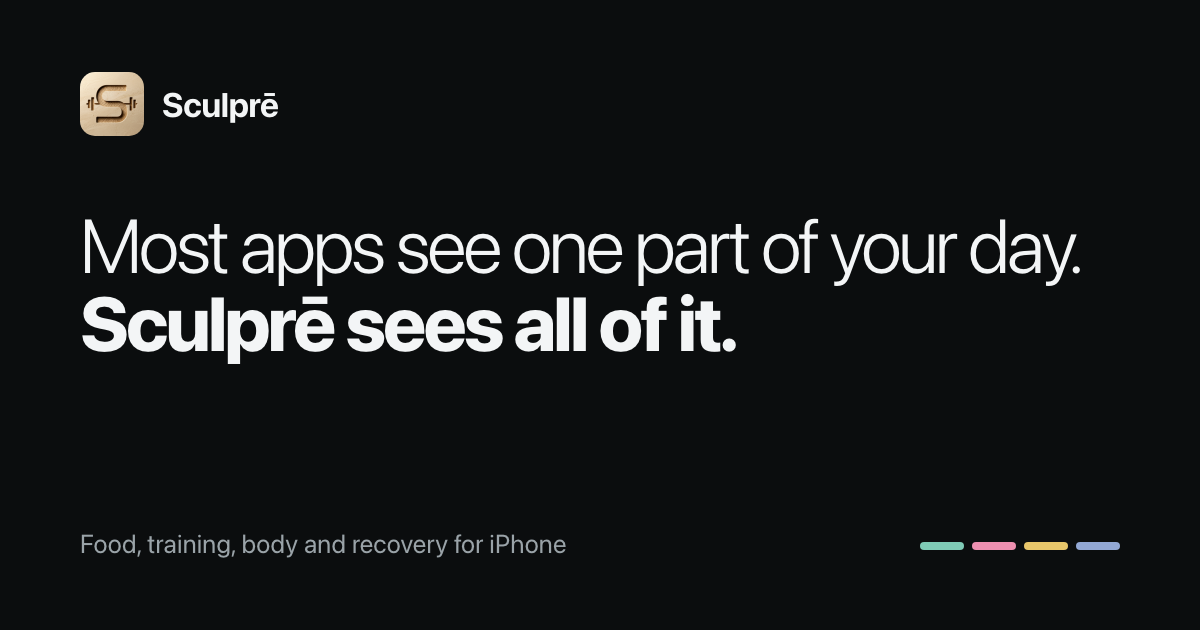
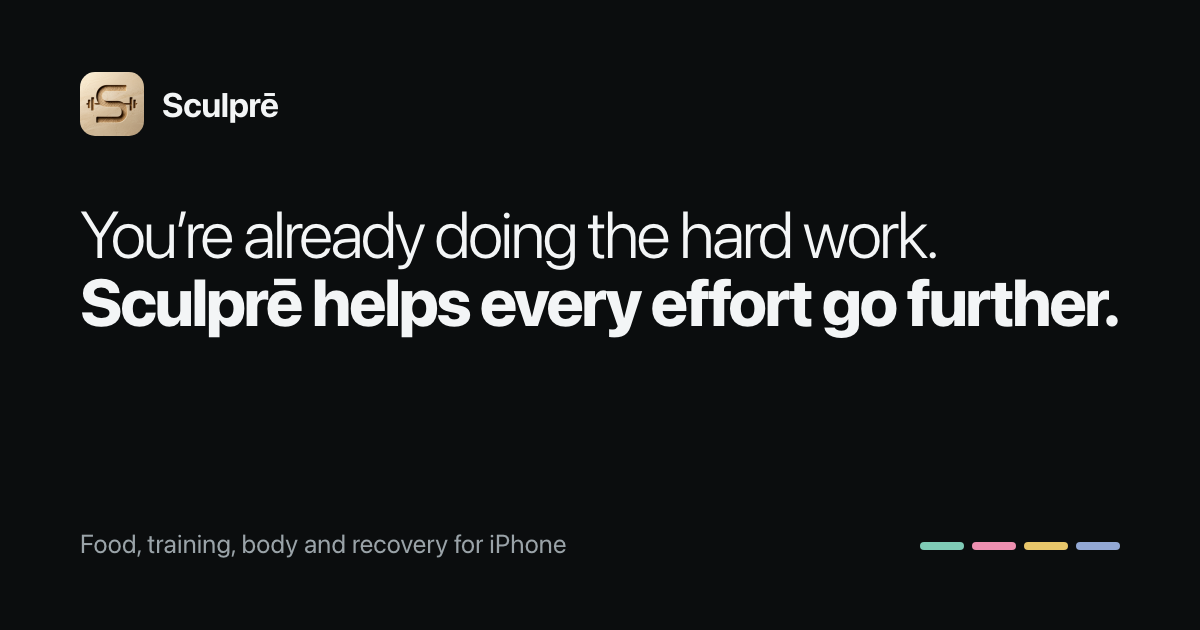
Publish from health-app 4997b5d

Changed region(s): [[0.0617, 0.3317, 0.925, 0.573]]

diff --git a/index.html b/index.html
@@ -14,10 +14,10 @@
   <meta property="og:title" content="Sculprē: macro tracker, workout log and recovery for iPhone">
   <meta property="og:description" content="Track food, lifts, body and recovery in one iPhone app. Sculprē sets your macros, plans each lift’s next sets and reads recovery from Apple Health or Oura.">
   <meta property="og:url" content="https://sculpre.io/">
-  <meta property="og:image" content="https://sculpre.io/assets/og.png">
+  <meta property="og:image" content="https://sculpre.io/assets/og.png?v=2">
   <meta property="og:image:width" content="1200">
   <meta property="og:image:height" content="630">
-  <meta property="og:image:alt" content="Sculprē: most apps see one part of your day. Sculprē sees all of it.">
+  <meta property="og:image:alt" content="Sculprē: you’re already doing the hard work. Sculprē helps every effort go further.">
   <meta property="og:locale" content="en_US">
   <meta name="twitter:card" content="summary_large_image">
   
@@ -48,8 +48,8 @@
       <div class="wrap hero-grid">
         <div>
           <p class="eyebrow">Macro tracker, workout log and recovery for iPhone</p>
-          <h1 class="display"><span class="thin">Most apps see one part of your day.</span> <span class="bold">Sculprē sees all of it.</span></h1>
-          <p class="lead">Food, training, body composition and recovery in one iPhone app. Your targets, lift suggestions and readiness all work from the same day, so a short night or a skipped workout changes the plan.</p>
+          <h1 class="display"><span class="thin">You’re already doing the hard work.</span> <span class="bold">Sculprē helps every effort go further.</span></h1>
+          <p class="lead">Your watch, ring, scale and meals in one iPhone app. Sculprē reads what Apple Health and Oura already track and turns it into today’s targets, lift suggestions and readiness.</p>
           <div class="cta-row">
             <a class="btn" href="/get/">Get Sculprē</a>
             <a class="text-link" href="/pricing/">What Pro adds</a>
@@ -138,8 +138,8 @@
     <section class="section">
       <div class="wrap">
         <div class="section-head">
-          <h2 class="title"><span class="thin">Your food, lifts and sleep</span> <span class="bold">change each other’s plans.</span></h2>
-          <p class="lead">Separate apps can’t see that you slept five hours or skipped leg day. Sculprē can, because it keeps all of it in one place.</p>
+          <h2 class="title"><span class="thin">Most apps see one part of your day.</span> <span class="bold">Sculprē sees all of it.</span></h2>
+          <p class="lead">Separate apps can’t see that you slept five hours or skipped leg day. Sculprē can, so your food, lifts and sleep change each other’s plans.</p>
         </div>
         <div class="grid-3">
           <article class="card">

diff --git a/coach/index.html b/coach/index.html
@@ -14,10 +14,10 @@
   <meta property="og:title" content="Sculprē Coach: online coaching software for personal trainers">
   <meta property="og:description" content="Every client’s training, food, sleep and body data in one dashboard. Send programs and macro targets and message clients. Unlimited clients for $39.99 a month.">
   <meta property="og:url" content="https://sculpre.io/coach/">
-  <meta property="og:image" content="https://sculpre.io/assets/og.png">
+  <meta property="og:image" content="https://sculpre.io/assets/og.png?v=2">
   <meta property="og:image:width" content="1200">
   <meta property="og:image:height" content="630">
-  <meta property="og:image:alt" content="Sculprē: most apps see one part of your day. Sculprē sees all of it.">
+  <meta property="og:image:alt" content="Sculprē: you’re already doing the hard work. Sculprē helps every effort go further.">
   <meta property="og:locale" content="en_US">
   <meta name="twitter:card" content="summary_large_image">
   

diff --git a/pricing/index.html b/pricing/index.html
@@ -14,10 +14,10 @@
   <meta property="og:title" content="Sculprē pricing: free macro and workout tracker, Pro from $9.99">
   <meta property="og:description" content="Free to start. Pro adds Claude coaching, Smart macros, photo food logging and trends from $9.99 a month, with founders’ prices through January 31, 2027.">
   <meta property="og:url" content="https://sculpre.io/pricing/">
-  <meta property="og:image" content="https://sculpre.io/assets/og.png">
+  <meta property="og:image" content="https://sculpre.io/assets/og.png?v=2">
   <meta property="og:image:width" content="1200">
   <meta property="og:image:height" content="630">
-  <meta property="og:image:alt" content="Sculprē: most apps see one part of your day. Sculprē sees all of it.">
+  <meta property="og:image:alt" content="Sculprē: you’re already doing the hard work. Sculprē helps every effort go further.">
   <meta property="og:locale" content="en_US">
   <meta name="twitter:card" content="summary_large_image">
   

diff --git a/faq/index.html b/faq/index.html
@@ -14,10 +14,10 @@
   <meta property="og:title" content="Sculprē FAQ: macro targets, lift suggestions, Pro and privacy">
   <meta property="og:description" content="How Sculprē sets calorie and macro targets and suggests lifts, what Pro adds, which apps work with it, and where your health data is kept.">
   <meta property="og:url" content="https://sculpre.io/faq/">
-  <meta property="og:image" content="https://sculpre.io/assets/og.png">
+  <meta property="og:image" content="https://sculpre.io/assets/og.png?v=2">
   <meta property="og:image:width" content="1200">
   <meta property="og:image:height" content="630">
-  <meta property="og:image:alt" content="Sculprē: most apps see one part of your day. Sculprē sees all of it.">
+  <meta property="og:image:alt" content="Sculprē: you’re already doing the hard work. Sculprē helps every effort go further.">
   <meta property="og:locale" content="en_US">
   <meta name="twitter:card" content="summary_large_image">
   

diff --git a/get/index.html b/get/index.html
@@ -14,10 +14,10 @@
   <meta property="og:title" content="Get Sculprē for iPhone: join the TestFlight beta">
   <meta property="og:description" content="Sculprē is in public beta on TestFlight while its App Store release is reviewed. Install TestFlight, join the beta and set your goal.">
   <meta property="og:url" content="https://sculpre.io/get/">
-  <meta property="og:image" content="https://sculpre.io/assets/og.png">
+  <meta property="og:image" content="https://sculpre.io/assets/og.png?v=2">
   <meta property="og:image:width" content="1200">
   <meta property="og:image:height" content="630">
-  <meta property="og:image:alt" content="Sculprē: most apps see one part of your day. Sculprē sees all of it.">
+  <meta property="og:image:alt" content="Sculprē: you’re already doing the hard work. Sculprē helps every effort go further.">
   <meta property="og:locale" content="en_US">
   <meta name="twitter:card" content="summary_large_image">
   

diff --git a/404.html b/404.html
@@ -14,10 +14,10 @@
   <meta property="og:title" content="Page not found: Sculprē">
   <meta property="og:description" content="This page doesn’t exist.">
   <meta property="og:url" content="https://sculpre.io/404.html">
-  <meta property="og:image" content="https://sculpre.io/assets/og.png">
+  <meta property="og:image" content="https://sculpre.io/assets/og.png?v=2">
   <meta property="og:image:width" content="1200">
   <meta property="og:image:height" content="630">
-  <meta property="og:image:alt" content="Sculprē: most apps see one part of your day. Sculprē sees all of it.">
+  <meta property="og:image:alt" content="Sculprē: you’re already doing the hard work. Sculprē helps every effort go further.">
   <meta property="og:locale" content="en_US">
   <meta name="twitter:card" content="summary_large_image">
   

diff --git a/assets/site.css b/assets/site.css
@@ -107,6 +107,7 @@ h1, h2, h3 { margin: 0; font-weight: 700; text-wrap: balance; }
 /* Hero */
 .hero { padding: 88px 0 0; }
 .hero-grid { display: grid; grid-template-columns: 1.05fr 0.95fr; gap: 48px; align-items: center; }
+.hero .display { font-size: clamp(40px, 5.2vw, 66px); }
 .hero .lead { margin-top: 28px; }
 .cta-row { display: flex; flex-wrap: wrap; align-items: center; gap: 16px 28px; margin-top: 40px; }
 .cta-note { display: flex; align-items: center; gap: 12px; margin-top: 28px; color: var(--text-2); font-size: 15px; }
